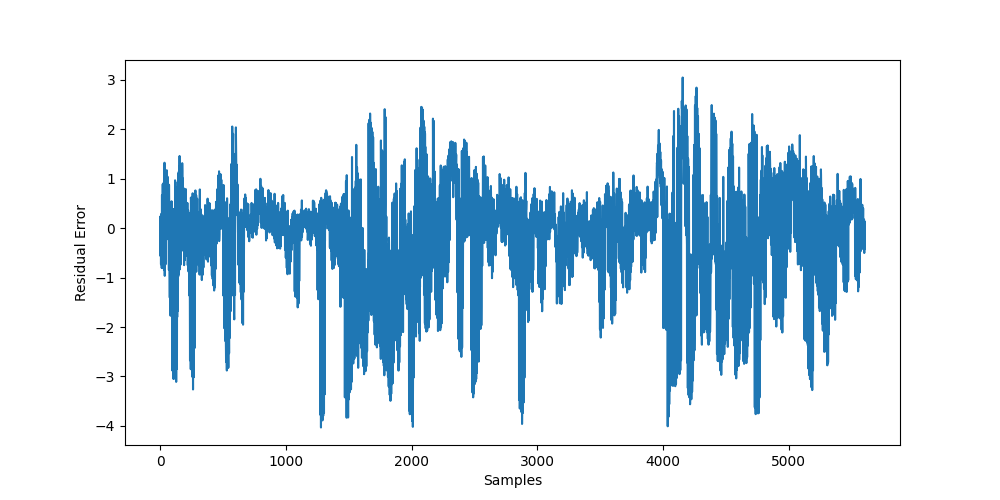
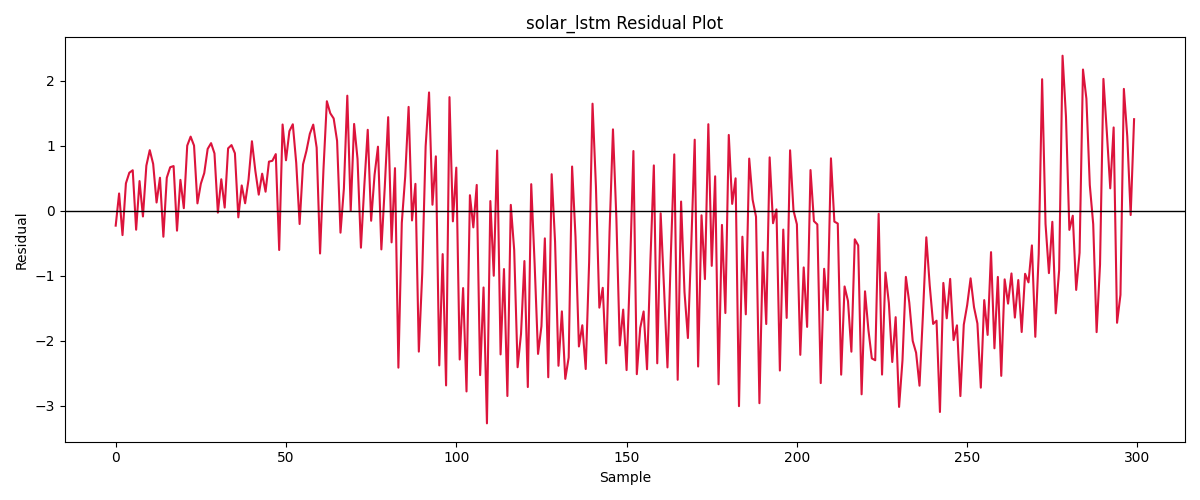
feat: add city-based solar radiation prediction support and update frontend with interactive mapping interface and additional deep learning models

diff --git a/BackendServer/templates/home.html b/BackendServer/templates/home.html
@@ -1,19 +1,153 @@
 <!DOCTYPE html>
-<html>
+<html lang="en">
 <head>
-    <title>Solar Models</title>
+    <meta charset="UTF-8">
+    <meta name="viewport" content="width=device-width, initial-scale=1.0">
+    <title>Solar Radiation Prediction for DK Region</title>
+    <link href="https://fonts.googleapis.com/css2?family=Outfit:wght@300;400;600;800&display=swap" rel="stylesheet">
+    <link rel="stylesheet" href="https://unpkg.com/leaflet@1.9.4/dist/leaflet.css" />
+    <style>
+        :root {
+            --bg-color: #0f172a;
+            --text-color: #f8fafc;
+            --accent-color: #38bdf8;
+            --card-bg: rgba(30, 41, 59, 0.7);
+        }
+        body {
+            font-family: 'Outfit', sans-serif;
+            background: linear-gradient(135deg, #0f172a 0%, #1e1b4b 100%);
+            color: var(--text-color);
+            margin: 0;
+            padding: 0;
+            min-height: 100vh;
+            display: flex;
+            flex-direction: column;
+            align-items: center;
+        }
+        header {
+            width: 100%;
+            padding: 40px 20px;
+            text-align: center;
+            box-sizing: border-box;
+        }
+        h1 {
+            font-size: 3.5rem;
+            font-weight: 800;
+            margin: 0 0 10px 0;
+            background: linear-gradient(to right, #38bdf8, #818cf8);
+            -webkit-background-clip: text;
+            -webkit-text-fill-color: transparent;
+            text-shadow: 0 0 30px rgba(56, 189, 248, 0.5);
+        }
+        p.subtitle {
+            color: #94a3b8;
+            font-size: 1.2rem;
+            max-width: 600px;
+            margin: 0 auto 30px auto;
+        }
+        .map-container {
+            width: 90%;
+            max-width: 1200px;
+            height: 600px;
+            background: var(--card-bg);
+            backdrop-filter: blur(12px);
+            border: 1px solid rgba(255, 255, 255, 0.1);
+            border-radius: 20px;
+            padding: 20px;
+            box-shadow: 0 25px 50px -12px rgba(0, 0, 0, 0.5);
+            margin-bottom: 50px;
+        }
+        #map {
+            width: 100%;
+            height: 100%;
+            border-radius: 12px;
+            z-index: 1;
+        }
+        /* Custom Popup Styles */
+        .leaflet-popup-content-wrapper {
+            background: #1e293b;
+            color: #f8fafc;
+            border: 1px solid rgba(56, 189, 248, 0.3);
+            border-radius: 12px;
+        }
+        .leaflet-popup-tip {
+            background: #1e293b;
+        }
+        .popup-content {
+            text-align: center;
+            padding: 10px;
+        }
+        .popup-content h3 {
+            margin: 0 0 10px 0;
+            color: #38bdf8;
+            font-family: 'Outfit', sans-serif;
+        }
+        .popup-btn {
+            display: inline-block;
+            background: linear-gradient(135deg, #38bdf8 0%, #3b82f6 100%);
+            color: white !important;
+            text-decoration: none;
+            padding: 8px 16px;
+            border-radius: 6px;
+            font-weight: 600;
+            margin-top: 10px;
+            transition: all 0.3s ease;
+        }
+        .popup-btn:hover {
+            transform: translateY(-2px);
+            box-shadow: 0 4px 15px rgba(56, 189, 248, 0.4);
+        }
+    </style>
 </head>
 <body>
 
-    <h1>Available Models</h1>
+    <header>
+        <h1>Solar Radiation Prediction for DK Region</h1>
+        <p class="subtitle">Select a city from the Dakshina Kannada region on the map below to launch the forecasting dashboard.</p>
+    </header>
 
-    <ul>
-        {% for model in models %}
-            <li>
-                <a href="/{{ model }}">{{ model | replace('_', ' ') | title }}</a>
-            </li>
-        {% endfor %}
-    </ul>
+    <div class="map-container">
+        <div id="map"></div>
+    </div>
 
+    <script src="https://unpkg.com/leaflet@1.9.4/dist/leaflet.js"></script>
+    <script>
+        var map = L.map('map', {
+            center: [12.87, 75.12],
+            zoom: 10,
+            minZoom: 9
+        });
+
+        // Dark theme map tiles for premium look
+        L.tileLayer('https://{s}.basemaps.cartocdn.com/dark_all/{z}/{x}/{y}{r}.png', {
+            attribution: '&copy; <a href="https://www.openstreetmap.org/copyright">OpenStreetMap</a> contributors &copy; <a href="https://carto.com/attributions">CARTO</a>',
+            subdomains: 'abcd',
+            maxZoom: 19
+        }).addTo(map);
+
+        var cities = [
+            { name: "Mangaluru", lat: 12.9141, lng: 74.8560 },
+            { name: "Puttur", lat: 12.7668, lng: 75.2016 },
+            { name: "Sullia", lat: 12.5593, lng: 75.3907 },
+            { name: "Bantwal", lat: 12.8890, lng: 75.0346 },
+            { name: "Belthangady", lat: 12.9866, lng: 75.2755 },
+            { name: "Moodabidri", lat: 13.0655, lng: 74.9963 }
+        ];
+
+        // Ensure models are available
+        const modelUrl = "/solar_lstm";
+
+        cities.forEach(function(city) {
+            var marker = L.marker([city.lat, city.lng]).addTo(map);
+            var popupHtml = `
+                <div class="popup-content">
+                    <h3>${city.name}</h3>
+                    <p>Dakshina Kannada</p>
+                    <a href="${modelUrl}?city=${encodeURIComponent(city.name)}" class="popup-btn">Predict Radiation</a>
+                </div>
+            `;
+            marker.bindPopup(popupHtml);
+        });
+    </script>
 </body>
 </html>

diff --git a/BackendServer/templates/predict.html b/BackendServer/templates/predict.html
@@ -198,7 +198,7 @@
 <body>
 
     <h1 id="main-heading">{{ model_name | replace('_', ' ') | title }} Predictor</h1>
-    <p class="subtitle">Forecast the next 7 days of solar radiation using advanced deep learning.</p>
+    <p class="subtitle">Forecast the next 7 days of solar radiation for <strong>{{ city }}</strong> using advanced deep learning.</p>
 
     <div class="container">
         <div style="text-align: right; margin-bottom: 20px;">

diff --git a/BackendServer/app.py b/BackendServer/app.py
@@ -123,9 +123,12 @@ def predict(model_name):
 
     plot_files = [f for f in os.listdir(config["plots_dir"]) if f.endswith(".png")] if os.path.exists(config["plots_dir"]) else []
 
+    city = request.args.get("city", "Dakshina Kannada Region")
+
     return render_template(
         "predict.html", model_name=model_name, features=config["features"],
-        time_steps=config["time_steps"], prediction=prediction, error=error, plot_files=plot_files
+        time_steps=config["time_steps"], prediction=prediction, error=error, plot_files=plot_files,
+        city=city
     )
 
 @app.route("/plots/<model_name>/<filename>")